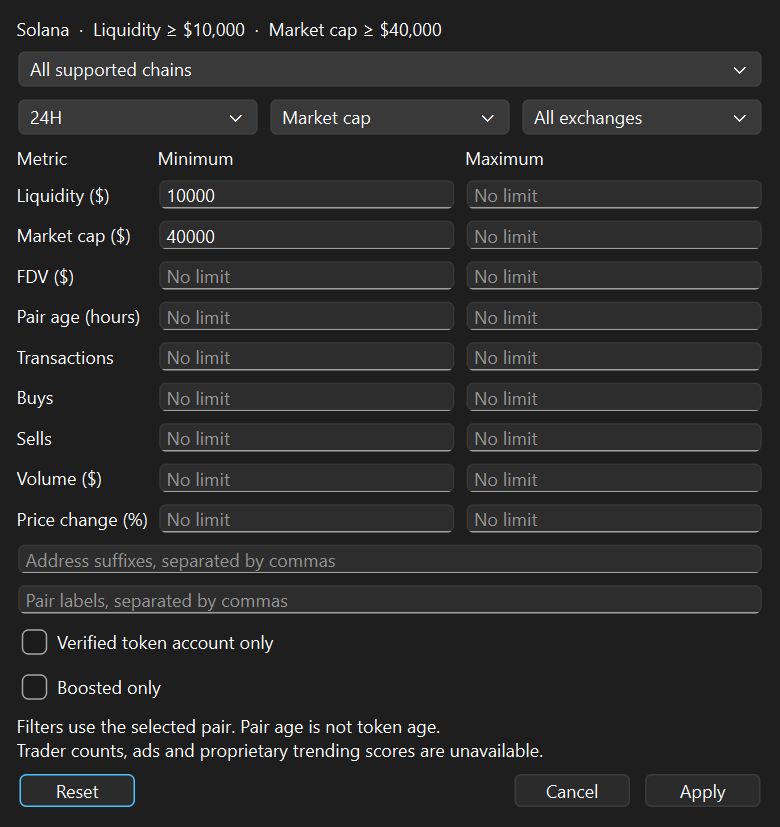
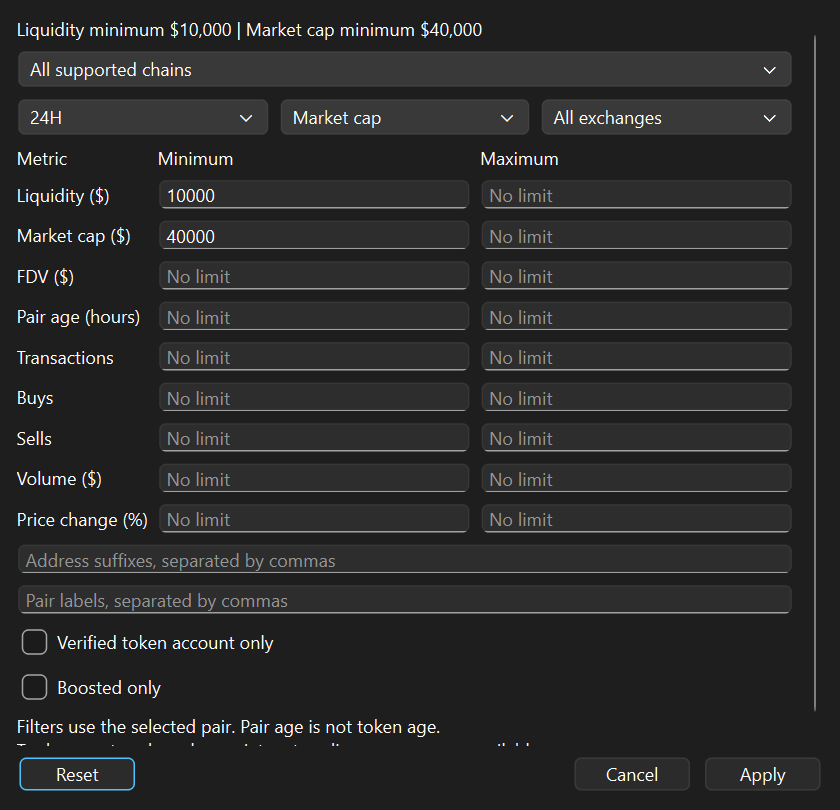
Keep filter editor within app and screen bounds

diff --git a/filter_dialog.py b/filter_dialog.py
@@ -1,5 +1,6 @@
 import math
-from PySide6.QtWidgets import QDialog, QVBoxLayout, QHBoxLayout, QGridLayout, QLabel, QLineEdit, QComboBox, QCheckBox, QPushButton, QMessageBox
+from PySide6.QtWidgets import QDialog, QVBoxLayout, QHBoxLayout, QGridLayout, QLabel, QLineEdit, QComboBox, QCheckBox, QPushButton, QMessageBox, QWidget, QScrollArea, QSizePolicy, QApplication
+from PySide6.QtCore import Qt
 from token_filters import DEFAULTS, RANGES
 from chains import CHAINS
 
@@ -8,13 +9,22 @@ class FilterDialog(QDialog):
     def __init__(self, settings, exchanges, parent=None):
         super().__init__(parent)
         self.setWindowTitle('Customize filters')
-        self.setMinimumWidth(520)
-        layout = QVBoxLayout(self)
-        layout.addWidget(QLabel('Solana  ·  Liquidity ≥ $10,000  ·  Market cap ≥ $40,000'))
+        outer = QVBoxLayout(self)
+        self.scroll = QScrollArea()
+        self.scroll.setWidgetResizable(True)
+        self.scroll.setHorizontalScrollBarPolicy(Qt.ScrollBarPolicy.ScrollBarAlwaysOff)
+        self.scroll.setFrameShape(QScrollArea.Shape.NoFrame)
+        content = QWidget()
+        layout = QVBoxLayout(content)
+        layout.setContentsMargins(0, 0, 8, 0)
+        summary = QLabel('Liquidity minimum $10,000 | Market cap minimum $40,000')
+        summary.setWordWrap(True)
+        layout.addWidget(summary)
         self.chain = QComboBox()
         self.chain.addItem('All supported chains', '')
         for chain in CHAINS:
             self.chain.addItem(chain.capitalize(), chain)
+        self.chain.setSizePolicy(QSizePolicy.Policy.Ignored, QSizePolicy.Policy.Fixed)
         layout.addWidget(self.chain)
         options = QHBoxLayout()
         self.timeframe = QComboBox()
@@ -27,6 +37,8 @@ class FilterDialog(QDialog):
         self.dex.addItem('All exchanges', '')
         for exchange in sorted(set(exchanges)):
             self.dex.addItem(exchange, exchange)
+        for combo in [self.timeframe, self.sort, self.dex]:
+            combo.setSizePolicy(QSizePolicy.Policy.Ignored, QSizePolicy.Policy.Fixed)
         options.addWidget(self.timeframe)
         options.addWidget(self.sort)
         options.addWidget(self.dex)
@@ -55,7 +67,11 @@ class FilterDialog(QDialog):
         self.boosted = QCheckBox('Boosted only')
         layout.addWidget(self.confirmed)
         layout.addWidget(self.boosted)
-        layout.addWidget(QLabel('Filters use the selected pair. Pair age is not token age.\nTrader counts, ads and proprietary trending scores are unavailable.'))
+        explanation = QLabel('Filters use the selected pair. Pair age is not token age.\nTrader counts, ads and proprietary trending scores are unavailable.')
+        explanation.setWordWrap(True)
+        layout.addWidget(explanation)
+        self.scroll.setWidget(content)
+        outer.addWidget(self.scroll, 1)
         buttons = QHBoxLayout()
         reset = QPushButton('Reset')
         reset.clicked.connect(lambda: self.load(DEFAULTS))
@@ -67,7 +83,13 @@ class FilterDialog(QDialog):
         buttons.addStretch()
         buttons.addWidget(cancel)
         buttons.addWidget(apply)
-        layout.addLayout(buttons)
+        outer.addLayout(buttons)
+        screen = (parent.screen() if parent else QApplication.primaryScreen()).availableGeometry()
+        width = min(560, screen.width() - 64, parent.width() - 32 if parent else 560)
+        height = min(620, screen.height() - 80, parent.height() - 80 if parent else 620)
+        self.setMinimumSize(min(320, width), min(240, height))
+        self.setMaximumSize(width, height)
+        self.resize(width, height)
         self.load(settings)
 
     def load(self, settings):
